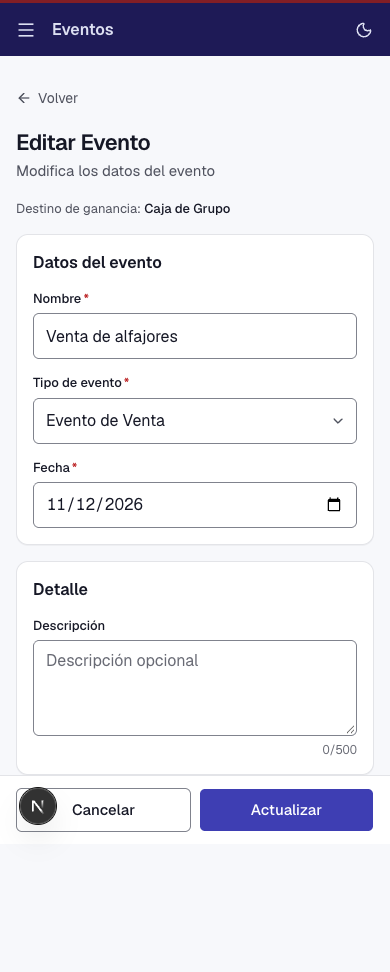
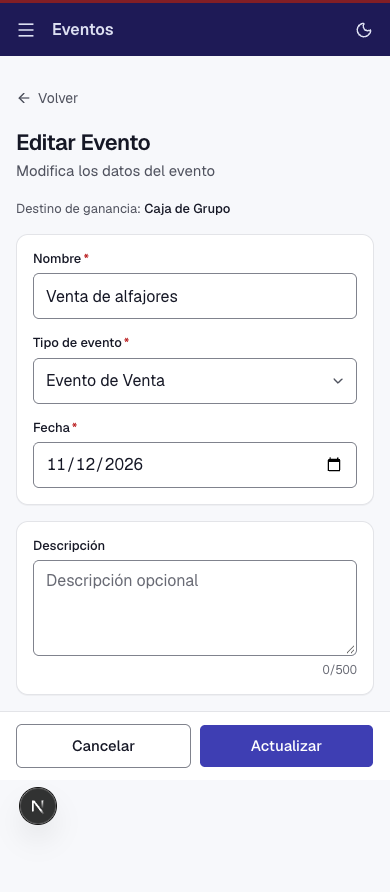
refactor(eventos): formularios con la misma composición que movimientos

diff --git a/apps/web/src/shared/components/ui/form/form-card.tsx b/apps/web/src/shared/components/ui/form/form-card.tsx
@@ -1,27 +1,18 @@
-import { useId, type ReactNode } from 'react';
+import type { ReactNode } from 'react';
 
 export interface FormCardProps {
-  readonly title: string;
-  readonly description?: string;
+  /** Nombre accesible de la sección (no se muestra: las tarjetas de formulario no llevan título). */
+  readonly label: string;
   readonly children: ReactNode;
 }
 
-/** Tarjeta de formulario: título corto (+ descripción) y los campos de esa sección. */
-export function FormCard({ title, description, children }: FormCardProps) {
-  const titleId = useId();
+/** Tarjeta de formulario: misma superficie que las de movimientos; dos lado a lado desde `lg`. */
+export function FormCard({ label, children }: FormCardProps) {
   return (
     <section
-      aria-labelledby={titleId}
+      aria-label={label}
       className="flex flex-col gap-4 rounded-xl border border-border bg-surface p-4 shadow-xs md:p-6"
     >
-      <header className="grid gap-1">
-        <h2 id={titleId} className="text-base font-semibold text-ink">
-          {title}
-        </h2>
-        {description ? (
-          <p className="text-sm text-ink-muted">{description}</p>
-        ) : null}
-      </header>
       {children}
     </section>
   );

diff --git a/apps/web/src/features/eventos/components/ventas-lote-view.tsx b/apps/web/src/features/eventos/components/ventas-lote-view.tsx
@@ -30,11 +30,11 @@ function LoteForm({ state }: { readonly state: VentasLoteState }) {
       className="flex flex-col gap-4 md:gap-6"
     >
       <div className="grid gap-4 md:gap-6 lg:grid-cols-2 lg:items-start">
-        <FormCard title={C.ventaSection}>
+        <FormCard label={C.ventaSection}>
           <VendedorFields state={state} />
           <PagoFields state={state} />
         </FormCard>
-        <FormCard title={C.cantidadesSection}>
+        <FormCard label={C.cantidadesSection}>
           <CantidadesTable
             productos={state.productos}
             cantidades={state.form.values.cantidades}
@@ -73,7 +73,7 @@ function LoteBody({ state }: { readonly state: VentasLoteState }) {
 export function VentasLoteView({ id }: { readonly id: string }) {
   const state = useVentasLote(id);
   return (
-    <div className="mx-auto flex w-full max-w-5xl flex-col gap-4 md:gap-6">
+    <div className="flex flex-col gap-4 md:gap-6">
       <PageHeader
         title={C.title}
         subtitle={C.subtitle}

diff --git a/apps/web/src/shared/components/ui/form/form-card.test.tsx b/apps/web/src/shared/components/ui/form/form-card.test.tsx
@@ -3,17 +3,14 @@ import { render, screen } from '@testing-library/react';
 import { FormCard } from './form-card';
 
 describe('FormCard', () => {
-  it('es una sección nombrada por su título, con descripción opcional', () => {
+  it('es una sección nombrada que agrupa los campos, sin título visible', () => {
     render(
-      <FormCard title="Datos del evento" description="Lo básico">
+      <FormCard label="Datos del evento">
         <input aria-label="Nombre" />
       </FormCard>,
     );
     const section = screen.getByRole('region', { name: 'Datos del evento' });
     expect(section).toContainElement(screen.getByLabelText('Nombre'));
-    expect(screen.getByText('Lo básico')).toBeInTheDocument();
-    expect(
-      screen.getByRole('heading', { level: 2, name: 'Datos del evento' }),
-    ).toBeInTheDocument();
+    expect(screen.queryByRole('heading')).not.toBeInTheDocument();
   });
 });

diff --git a/apps/web/src/features/eventos/components/evento-form-fields.tsx b/apps/web/src/features/eventos/components/evento-form-fields.tsx
@@ -91,8 +91,8 @@ function BaseFields({ form }: { readonly form: EventoFormState }) {
 export function EventoFormFields({ form, isEditing }: FieldsProps) {
   const { values, errors } = form;
   return (
-    <div className="flex flex-col gap-4 md:gap-6">
-      <FormCard title={C.sectionDatos}>
+    <div className="grid gap-4 md:gap-6 lg:grid-cols-2 lg:items-start">
+      <FormCard label={C.sectionDatos}>
         <BaseFields form={form} />
         {values.tipo === TIPO_EVENTO.GRUPO && (
           <TextField
@@ -106,7 +106,7 @@ export function EventoFormFields({ form, isEditing }: FieldsProps) {
           />
         )}
       </FormCard>
-      <FormCard title={C.sectionDetalle}>
+      <FormCard label={C.sectionDetalle}>
         <VentaFields form={form} isEditing={isEditing} />
         <TextareaField
           label={C.descripcion}

diff --git a/apps/web/src/features/eventos/components/evento-form-view.tsx b/apps/web/src/features/eventos/components/evento-form-view.tsx
@@ -77,7 +77,7 @@ function DestinoMeta({ evento }: { readonly evento: Evento }) {
 /** `/eventos/crear` */
 export function EventoCreateView() {
   return (
-    <div className="mx-auto flex w-full max-w-2xl flex-col gap-4 md:gap-6">
+    <div className="flex flex-col gap-4 md:gap-6">
       <PageHeader
         title={C.newTitle}
         subtitle={C.newSubtitle}
@@ -96,7 +96,7 @@ export function EventoEditView({ id }: { readonly id: string }) {
   });
   const evento = query.data;
   return (
-    <div className="mx-auto flex w-full max-w-2xl flex-col gap-4 md:gap-6">
+    <div className="flex flex-col gap-4 md:gap-6">
       <PageHeader
         title={C.editTitle}
         subtitle={C.editSubtitle}

diff --git a/apps/web/docs/REDESIGN.md b/apps/web/docs/REDESIGN.md
@@ -75,7 +75,7 @@ Grilla de 2 columnas; check para lo entregado (con texto solo para lectores de p
 ## 4. Decisiones transversales (ya aplicadas)
 
 - Sin barra superior en desktop; el toggle de tema vive en el sidebar junto a Configuración.
-- Contenido sin `max-w`. Quedan acotados: formularios de persona (2xl), formularios de evento y campamento, Configuración (880px), detalle de persona externa y reporte público (`max-w-6xl`). Los formularios de movimiento ocupan todo el ancho en dos tarjetas.
+- Contenido sin `max-w`. Quedan acotados solo: Configuración (880px), detalle de persona externa y reporte público (`max-w-6xl`). **Todos los formularios** (movimiento, evento, campamento, persona, inscripción) ocupan todo el ancho en dos tarjetas.
 - Sin avatar con iniciales en la ficha (el chip de rama ya identifica).
 - «Registrar gasto» no tiene acceso propio en el dashboard (apuntaba a la misma ruta que «Nuevo movimiento»).
 - Evolución del saldo del grupo: se arma en el front paginando `GET /movimientos` (no hay endpoint de evolución).
@@ -118,7 +118,7 @@ Leyenda: ✅ hecha · 🟦 con mockup, pendiente · ⬜ sin mockup (propuesta en
 | `/campamentos/:id` | ⬜ | §7.6 |
 | `/campamentos/crear`, `/:id/editar` | ⬜ | §7.7 (formularios) |
 | `/eventos` | ✅ | Tabla en `ListPanel`, fila navegable con chevron y ⋯ |
-| `/eventos/crear`, `/:id/editar`, `/:id/ventas/registrar` | ✅ | `FormCard`; el alta/edición mantienen su ancho, la venta en lote va en dos tarjetas |
+| `/eventos/crear`, `/:id/editar`, `/:id/ventas/registrar` | ✅ | `FormCard`: dos tarjetas lado a lado a todo el ancho, igual que movimientos |
 | `/reportes`, `/reportes/deudas`, `/reportes/:report` | ⬜ | §7.9 |
 | `/personas` (listado), `/personas/educadores`, `/personas/personas-externas` | ⬜ | §7.10 |
 | `/personas/educadores/:id`, `/personas/personas-externas/:id` | ⬜ | §7.10 (fichas) |
@@ -168,7 +168,7 @@ Hoy: tres franjas apiladas (datos, KPIs, recaudación) y **una tarjeta por parti
 - Editar y Eliminar en el encabezado (Eliminar dentro de un menú, no suelto al pie).
 
 ### 7.7 Formularios (persona, campamento, evento, inscripción)
-Aplicar el patrón de §3.6 a todos: dos tarjetas desde `lg`, secciones con título corto, `FormActions` sticky, errores bajo el campo. Los que hoy están acotados a un ancho angosto (persona 2xl, evento, campamento) conservan su ancho: un formulario a 2200px es peor.
+Aplicar el patrón de §3.6 a todos: dos tarjetas desde `lg`, secciones con título corto, `FormActions` sticky, errores bajo el campo. **Todos los formularios (persona, evento, campamento, inscripción, venta en lote) usan la misma composición que movimientos: página a todo el ancho y dos tarjetas lado a lado desde `lg`** (decisión del usuario: la estética debe ser idéntica en todos).
 - **Venta en lote (`/eventos/:id/ventas/registrar`):** carga repetitiva → tabla editable (una fila por vendedor/producto) en vez de formularios apilados. Se confirma al implementarla qué trae hoy la pantalla.
 
 ### 7.8 Eventos, listado (`/eventos`)

diff --git a/apps/web/REGISTRY-detail/ui.md b/apps/web/REGISTRY-detail/ui.md
@@ -135,7 +135,7 @@ Cableado a11y automático (label↔control, `aria-invalid`, `aria-describedby` a
 
 ## `FormCard` — `shared/components/ui/form/form-card.tsx`
 
-`{ title, description?, children }`: tarjeta de sección de un formulario (región nombrada por su `h2`). Dos `FormCard` lado a lado desde `lg`, o apiladas en formularios angostos.
+`{ label, children }`: tarjeta de formulario con la misma superficie que las de movimientos, sin título visible (`label` es el nombre accesible). Siempre dos `FormCard` lado a lado desde `lg` (`grid lg:grid-cols-2 lg:items-start`), página a todo el ancho y `FormActions` sticky: es el patrón de TODOS los formularios.
 
 ## `InfoHint` — `shared/components/ui/info-hint.tsx`
 
